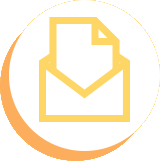
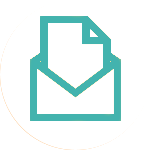
Datam.me color theme CSS, images and layout

diff --git a/getyourdata/static/css/bootstrap-overrides.css b/getyourdata/static/css/bootstrap-overrides.css
@@ -2,7 +2,9 @@
 */
 
 #bootstrap-overrides .body, body {
-    color: #a2a7ad;
+    font-family: 'Open Sans', sans-serif;
+    color: #000;
+    background-color: #a6ecf3;
 }
 
 #bootstrap-overrides a {
@@ -10,68 +12,101 @@
 }
 
 #bootstrap-overrides .navbar-inverse {
-    background-color: #ee766c;
+    background-color: #a6ecf3;
     border-color: #fff;
 }
 
 #bootstrap-overrides .navbar-brand {
     color: #fff;
+    padding: 0;
+    margin-left: 0px;
+    margin-right: 0.5em;
+    vertical-align: bottom;
+}
+
+.navbar-brand>img {
+    height: 100%;
+    padding: 2px;
+    width: auto;
 }
 
 #bootstrap-overrides .navbar-inverse .navbar-nav > li > a {
-    color: #fff;
+    border-radius: 5px;
+    border: 2px solid #43b3ae;
+    padding-top: 2px;
+    padding-bottom: 2px;
+    margin-top: 10px;
+    margin-right: 5px;
+    color: #43b3ae;
+    background-color: #ffffff;
 }
 
-#bootstrap-overrides .container.content-area {
+#bootstrap-overrides .navbar-inverse .navbar-nav > li > a:hover {
+    background-color: #43b3ae;
+    color: #ffffff;
+}
+
+#bootstrap-overrides .content-area {
     margin-top: 2em;
 }
 
+#bootstrap-overrides .container .row {
+    background-color: #ffffff;
+    padding-bottom: 10px;
+}
+
 #bootstrap-overrides .btn {
+    background-color: #43b3ae;
     color: #fff;
 }
 
 #bootstrap-overrides .btn-primary {
-    background-color: #46494e;
-    border-color: #d2d3d2;
-}
-
-#bootstrap-overrides .btn-default {
-    color: #000;
 }
 
 #bootstrap-overrides .well {
-    color: #fff;
-    background-color: #fed665;
+    color: #000;
+    background-color: #ffffff;
 }
 
 #bootstrap-overrides .h1, .h2, .h3, .h4, .h5, .h6, h1, h2, h3, h4, h5, h6 {
-    color: #a2a7ad;
+    font-family: 'Open Sans', sans-serif;
+    font-weight: 700;
+    color: #000;
 }
 
 #bootstrap-overrides .h1 .small, .h1 small, .h2 .small, .h2 small, .h3 .small, .h3 small, .h4 .small, .h4 small, .h5 .small, .h5 small, .h6 .small, .h6 small, h1 .small, h1 small, h2 .small, h2 small, h3 .small, h3 small, h4 .small, h4 small, h5 .small, h5 small, h6 .small, h6 small {
-    font-weight: 400;
+    color: #000;
     line-height: 1;
-    color: #fff;
 }
 
 #bootstrap-overrides .well h1, .well h2, .well h3, .well h4, .well h5, .well h6 {
-    color: #fff;
+    color: #000;
 }
 
 #bootstrap-overrides .well a {
-    color: #fff;
+    color: #000;
     text-decoration: underline;
 }
 
 #bootstrap-overrides .well .thumbnail {
     padding: 0px;
-    border: 0px;
-    background-color: transparent;
+    -moz-border-radius: 80px;
+    border-radius: 80px;
+    border-color: #43b3ae;
+    background-color: #43b3ae;
+    border-width: 5px;
+    opacity: 0.25;
+    filter: alpha(opacity=25);
+
 }
 
-#bootstrap-overrides .col-md-4.begin-here {
-    background: green;
+
+#bootstrap-overrides .col-md-4.begin-here .thumbnail {
+    opacity: 1.0;
+    filter: alpha(opacity=100);
 }
+
+
 
 
 /* org. list specific */
@@ -83,7 +118,7 @@
 
 #organization-list td > a {
     margin-top: 1em;
-    color: #959595;
+    color: #000;
 }
 
 #bootstrap-overrides .panel > .panel-heading {
@@ -97,6 +132,13 @@
     color: #959595;
     background-color: #f5f6f6;
     border-color: #f5f6f6;
+}
+
+/* review page */
+
+.form-horizontal .form-group {
+    margin-right: inherit;
+    margin-left: inherit;
 }
 
 

diff --git a/getyourdata/static/css/getyourdata.css b/getyourdata/static/css/getyourdata.css
@@ -41,7 +41,7 @@ img.center {
 .tabs li {
     text-align: center;
     width: 100%;
-    border-top: 1px solid white;
+    border-top: 1px solid #43b3ae;
     margin: 0;
     position: relative;
     padding: 1em 0;
@@ -59,12 +59,12 @@ img.center {
 }
 
 .tabs li.active {
-    color: white;
-    background-color: #fbbd19;
+    background-color: #43b3ae;
+    color: #ffffff;
 }
 
 .tabs li.active:after {
-    border-left: 14px solid #fbbd19;
+    border-left: 14px solid #43b3ae;
 }
 
 .tabs li.active a {
@@ -78,8 +78,9 @@ img.center {
         vertical-align: middle;
         padding: 0 0 0 15px;
         margin: 0;
-        border: none;
-        background-color: #f5f5f5;
+        border: #43b3ae;
+        color: #43b3ae;
+        background-color: #a6ecf3;
     }
 
     .tabs li .glyphicon {
@@ -97,7 +98,6 @@ img.center {
         border-left: 15px solid white;
         border-bottom: 21px solid transparent;
         z-index: 10;
-
     }
 
     .tabs li:after {
@@ -110,7 +110,7 @@ img.center {
         width: 0;
         height: 0;
         border-top: 20px solid transparent;
-        border-left: 14px solid #f5f5f5;
+        border-left: 14px solid #a6ecf3;
         border-bottom: 20px solid transparent;
         z-index: 11;
 

diff --git a/getyourdata/templates/navbar.html b/getyourdata/templates/navbar.html
@@ -1,6 +1,7 @@
 {% load i18n %}
 {% load extra_tags %}
 {% load flatpages %}
+{% load staticfiles %}
 
 <div class="navbar navbar-inverse navbar-fixed-top navbar-default" role="navigation">
     <div class="container">
@@ -12,7 +13,7 @@
                 <span class="icon-bar"></span>
                 <span class="icon-bar"></span>
             </button>
-            <a class="navbar-brand" href="{% url 'home' %}">{% current_site %}</a>
+            <a class="navbar-brand" href="{% url 'home' %}"><img src="{% static 'img/home/logo.png' %}"/></a>
             <ul class="pull-left nav navbar-nav">
                 {# Quick feedback #}
                 <li class="dropdown">

diff --git a/getyourdata/templates/base.html b/getyourdata/templates/base.html
@@ -28,8 +28,10 @@
         {% include "partials/messages.html" %}
 
         {# PAGE CONTENT #}
-        {% block content %}
-        {% endblock content %}
+        <div class="content-area">
+            {% block content %}
+            {% endblock content %}
+        </div>
 
         {% include "footer.html" %}
 
